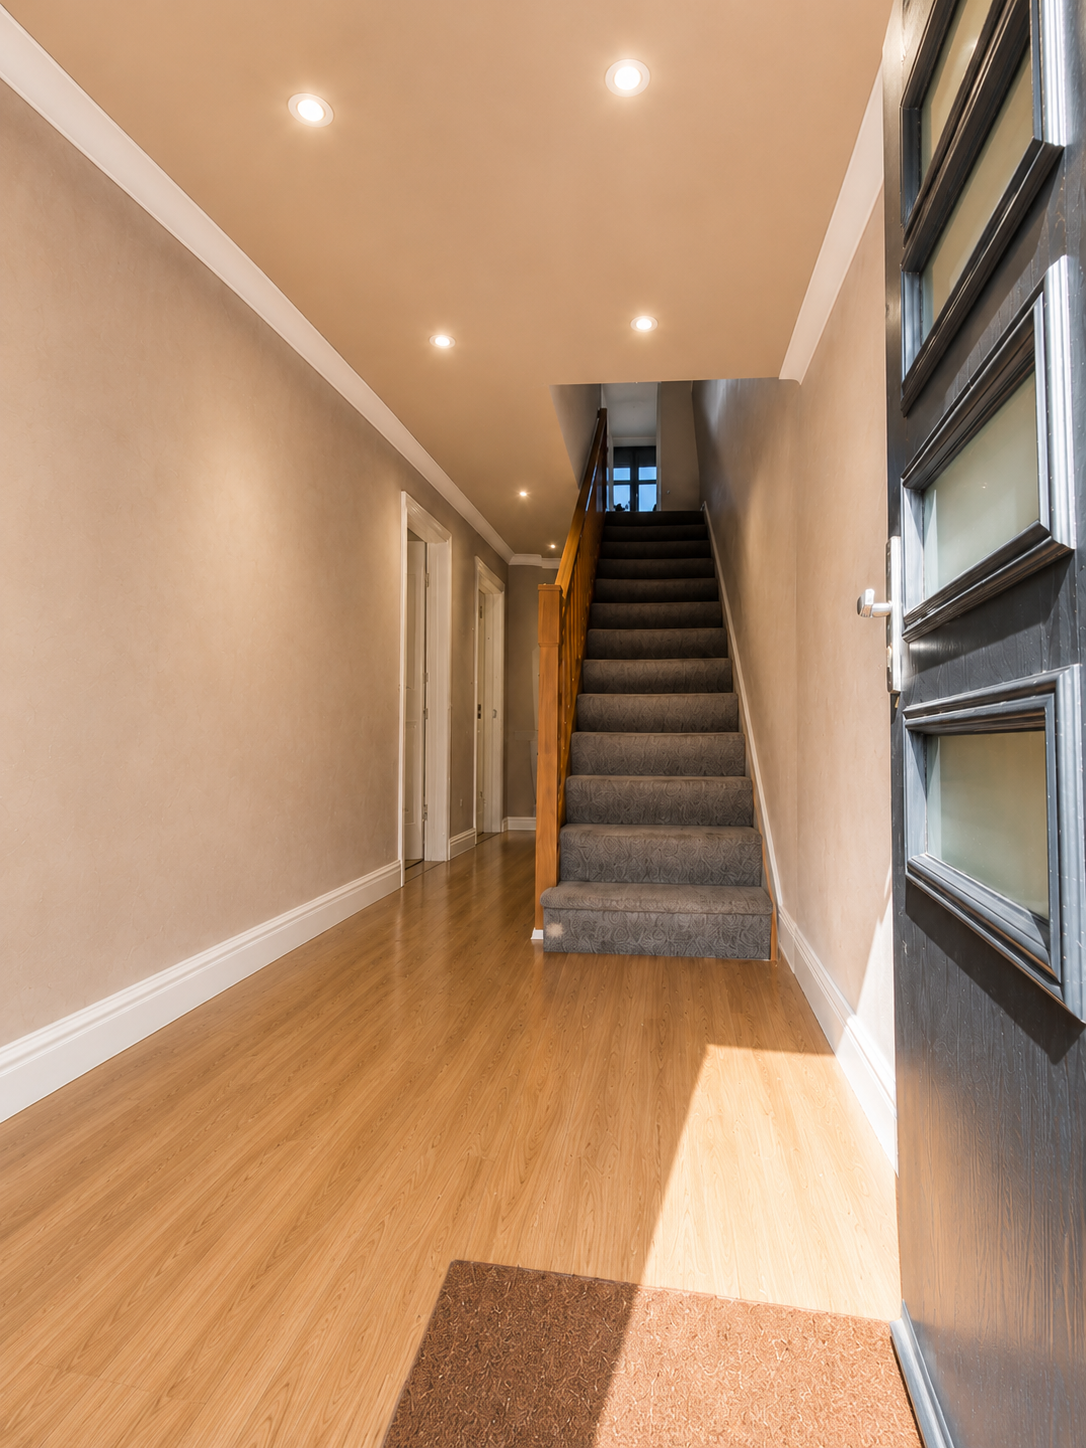
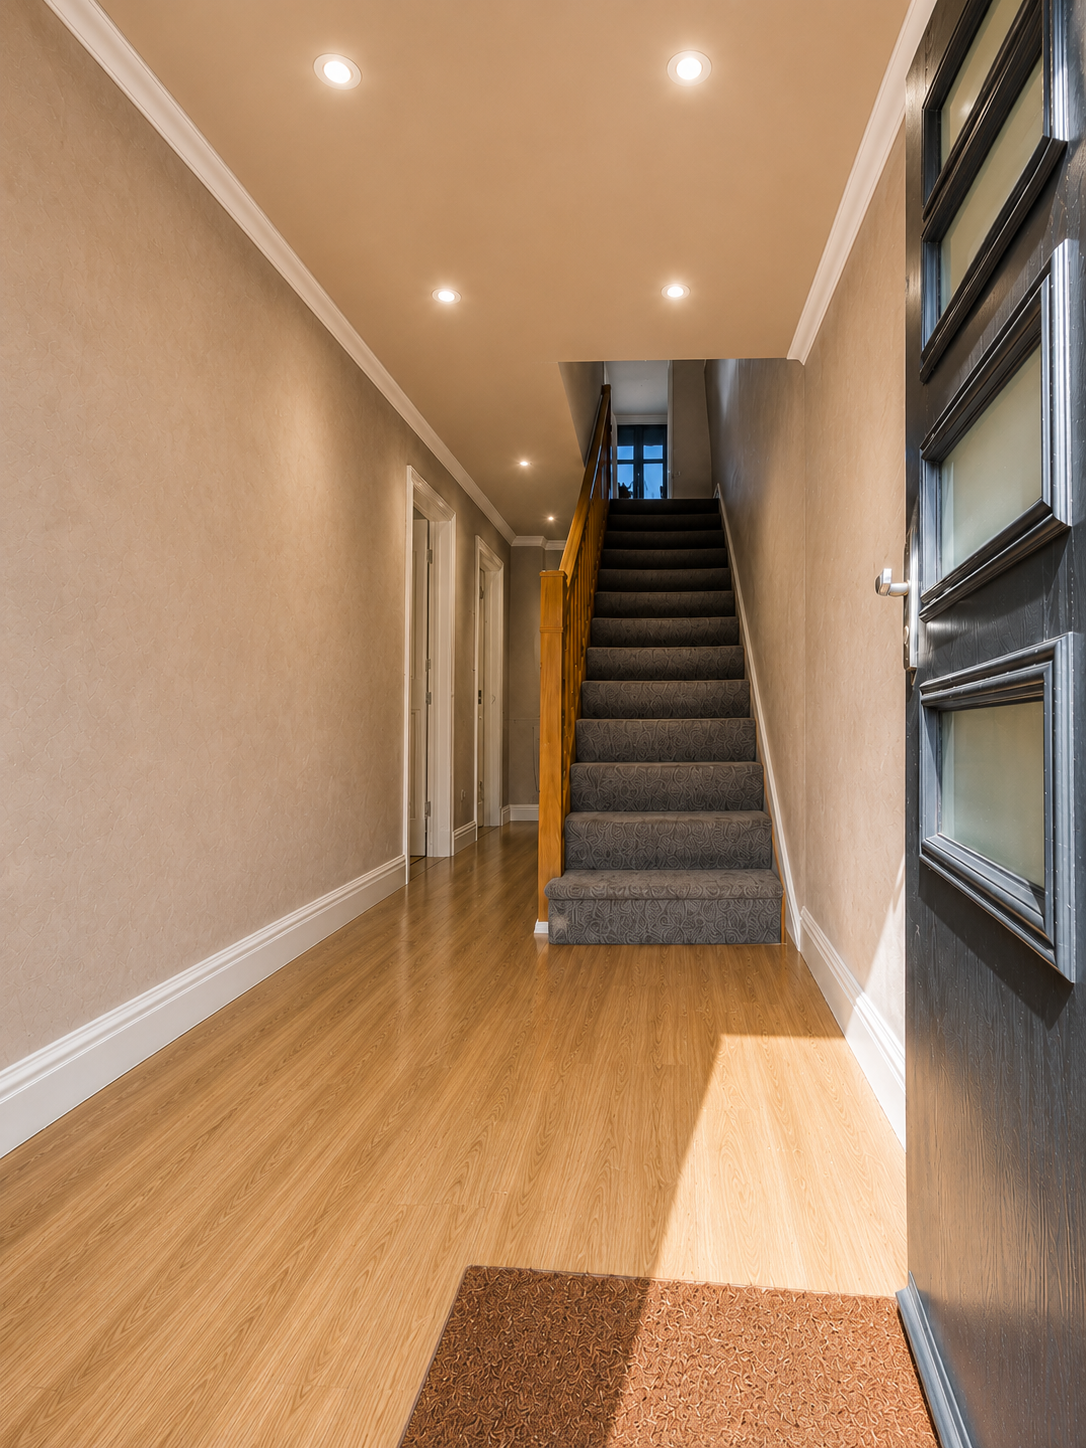
update

diff --git a/index.html b/index.html
@@ -307,148 +307,145 @@
             <div class="reviewCarousel">
                 <button class="reviewPrevButton">&lt;</button>
                     <div class="reviewWindow">
-                        <div class="reviewTracker">
-                            <div class="reviewCards">
-                                <div class="reviewCard">
-                                    <div class="Stars">
-                                        ⭐⭐⭐⭐⭐
-                                    </div>
-                                    <h1>Highly Recommended!</h1>
-                                    <div class="reviewP">
-                                        <p>Excellent service from Chris. Top-quality plastering, very reasonable rates, 
-                                            and a really tidy worker. 
-                                            The walls look brand new. 
-                                            I have already used his services 3 times and 
-                                            i'll definitely be using them again for future projects!</p>
-                                    </div>
-                                    <div class="customerRating">
-                                        <div class="verifedUser">
-                                            <h5>verfiedUser</h5>
-                                            <span> Checkatrade Customer</span>
-                                            <span>CM1</span>
-                                        </div>
-                                        <div class="checkatradeLogo">
-                                            <img src="./images/checkatrade logo.webp" alt="Checkatrade">
-                                        </div>
-                                    </div>
+                        <div class="reviewTracker">                      
+                            <div class="reviewCard">
+                                <div class="Stars">
+                                    ⭐⭐⭐⭐⭐
                                 </div>
-                                <div class="reviewCard">
-                                    <div class="Stars">
-                                        ⭐⭐⭐⭐⭐
-                                    </div>
-                                    <h1>Highly Recommended!</h1>
-                                    <div class="reviewP">
-                                        <p>Excellent service from Chris. Top-quality plastering, very reasonable rates, 
-                                            and a really tidy worker. 
-                                            The walls look brand new. 
-                                            I have already used his services 3 times and 
-                                            i'll definitely be using them again for future projects!</p>
-                                    </div>
-                                    <div class="customerRating">
-                                        <div class="verifedUser">
-                                            <h5>verfiedUser</h5>
-                                            <span> Checkatrade Customer</span>
-                                            <span>CM1</span>
-                                        </div>
-                                        <div class="checkatradeLogo">
-                                            <img src="./images/checkatrade logo.webp" alt="Checkatrade">
-                                        </div>
-                                    </div>
+                                <h1>Highly Recommended!</h1>
+                                <div class="reviewP">
+                                    <p>Excellent service from Chris. Top-quality plastering, very reasonable rates, 
+                                        and a really tidy worker. 
+                                        The walls look brand new. 
+                                        I have already used his services 3 times and 
+                                        i'll definitely be using them again for future projects!</p>
                                 </div>
-                                <div class="reviewCard">
-                                    <div class="Stars">
-                                        ⭐⭐⭐⭐⭐
+                                <div class="customerRating">
+                                    <div class="verifedUser">
+                                        <h5>verfiedUser</h5>
+                                        <span> Checkatrade Customer</span>
+                                        <span>CM1</span>
                                     </div>
-                                    <h1>Highly Recommended!</h1>
-                                    <div class="reviewP">
-                                        <p>Excellent service from Chris. Top-quality plastering, very reasonable rates, 
-                                            and a really tidy worker. 
-                                            The walls look brand new. 
-                                            I have already used his services 3 times and 
-                                            i'll definitely be using them again for future projects!</p>
-                                    </div>
-                                    <div class="customerRating">
-                                        <div class="verifedUser">
-                                            <h5>verfiedUser</h5>
-                                            <span> Checkatrade Customer</span>
-                                            <span>CM1</span>
-                                        </div>
-                                        <div class="checkatradeLogo">
-                                            <img src="./images/checkatrade logo.webp" alt="Checkatrade">
-                                        </div>
-                                    </div>
-                                </div>
-                                <div class="reviewCard">
-                                    <div class="Stars">
-                                        ⭐⭐⭐⭐⭐
-                                    </div>
-                                    <h1>Highly Recommended!</h1>
-                                    <div class="reviewP">
-                                        <p>Excellent service from Chris. Top-quality plastering, very reasonable rates, 
-                                            and a really tidy worker. 
-                                            The walls look brand new. 
-                                            I have already used his services 3 times and 
-                                            i'll definitely be using them again for future projects!</p>
-                                    </div>
-                                    <div class="customerRating">
-                                        <div class="verifedUser">
-                                            <h5>verfiedUser</h5>
-                                            <span> Checkatrade Customer</span>
-                                            <span>CM1</span>
-                                        </div>
-                                        <div class="checkatradeLogo">
-                                            <img src="./images/checkatrade logo.webp" alt="Checkatrade">
-                                        </div>
-                                    </div>
-                                </div>
-                                <div class="reviewCard">
-                                    <div class="Stars">
-                                        ⭐⭐⭐⭐⭐
-                                    </div>
-                                    <h1>Highly Recommended!</h1>
-                                    <div class="reviewP">
-                                        <p>Excellent service from Chris. Top-quality plastering, very reasonable rates, 
-                                            and a really tidy worker. 
-                                            The walls look brand new. 
-                                            I have already used his services 3 times and 
-                                            i'll definitely be using them again for future projects!</p>
-                                    </div>
-                                    <div class="customerRating">
-                                        <div class="verifedUser">
-                                            <h5>verfiedUser</h5>
-                                            <span> Checkatrade Customer</span>
-                                            <span>CM1</span>
-                                        </div>
-                                        <div class="checkatradeLogo">
-                                            <img src="./images/checkatrade logo.webp" alt="Checkatrade">
-                                        </div>
-                                    </div>
-                                </div>
-                                <div class="reviewCard">
-                                    <div class="Stars">
-                                        ⭐⭐⭐⭐⭐
-                                    </div>
-                                    <h1>Highly Recommended!</h1>
-                                    <div class="reviewP">
-                                        <p>Excellent service from Chris. Top-quality plastering, very reasonable rates, 
-                                            and a really tidy worker. 
-                                            The walls look brand new. 
-                                            I have already used his services 3 times and 
-                                            i'll definitely be using them again for future projects!</p>
-                                    </div>
-                                    <div class="customerRating">
-                                        <div class="verifedUser">
-                                            <h5>verfiedUser</h5>
-                                            <span> Checkatrade Customer</span>
-                                            <span>CM1</span>
-                                        </div>
-                                        <div class="checkatradeLogo">
-                                            <img src="./images/checkatrade logo.webp" alt="Checkatrade">
-                                        </div>
+                                    <div class="checkatradeLogo">
+                                        <img src="./images/checkatrade logo.webp" alt="Checkatrade">
                                     </div>
                                 </div>
                             </div>
-
+                            <div class="reviewCard">
+                                <div class="Stars">
+                                    ⭐⭐⭐⭐⭐
+                                </div>
+                                <h1>Highly Recommended!</h1>
+                                <div class="reviewP">
+                                    <p>Excellent service from Chris. Top-quality plastering, very reasonable rates, 
+                                        and a really tidy worker. 
+                                        The walls look brand new. 
+                                        I have already used his services 3 times and 
+                                        i'll definitely be using them again for future projects!</p>
+                                </div>
+                                <div class="customerRating">
+                                    <div class="verifedUser">
+                                        <h5>verfiedUser</h5>
+                                        <span> Checkatrade Customer</span>
+                                        <span>CM1</span>
+                                    </div>
+                                    <div class="checkatradeLogo">
+                                        <img src="./images/checkatrade logo.webp" alt="Checkatrade">
+                                    </div>
+                                </div>
+                            </div>
+                            <div class="reviewCard">
+                                <div class="Stars">
+                                    ⭐⭐⭐⭐⭐
+                                </div>
+                                <h1>Highly Recommended!</h1>
+                                <div class="reviewP">
+                                    <p>Excellent service from Chris. Top-quality plastering, very reasonable rates, 
+                                        and a really tidy worker. 
+                                        The walls look brand new. 
+                                        I have already used his services 3 times and 
+                                        i'll definitely be using them again for future projects!</p>
+                                </div>
+                                <div class="customerRating">
+                                    <div class="verifedUser">
+                                        <h5>verfiedUser</h5>
+                                        <span> Checkatrade Customer</span>
+                                        <span>CM1</span>
+                                    </div>
+                                    <div class="checkatradeLogo">
+                                        <img src="./images/checkatrade logo.webp" alt="Checkatrade">
+                                    </div>
+                                </div>
+                            </div>
+                            <div class="reviewCard">
+                                <div class="Stars">
+                                    ⭐⭐⭐⭐⭐
+                                </div>
+                                <h1>Highly Recommended!</h1>
+                                <div class="reviewP">
+                                    <p>Excellent service from Chris. Top-quality plastering, very reasonable rates, 
+                                        and a really tidy worker. 
+                                        The walls look brand new. 
+                                        I have already used his services 3 times and 
+                                        i'll definitely be using them again for future projects!</p>
+                                </div>
+                                <div class="customerRating">
+                                    <div class="verifedUser">
+                                        <h5>verfiedUser</h5>
+                                        <span> Checkatrade Customer</span>
+                                        <span>CM1</span>
+                                    </div>
+                                    <div class="checkatradeLogo">
+                                        <img src="./images/checkatrade logo.webp" alt="Checkatrade">
+                                    </div>
+                                </div>
+                            </div>
+                            <div class="reviewCard">
+                                <div class="Stars">
+                                    ⭐⭐⭐⭐⭐
+                                </div>
+                                <h1>Highly Recommended!</h1>
+                                <div class="reviewP">
+                                    <p>Excellent service from Chris. Top-quality plastering, very reasonable rates, 
+                                        and a really tidy worker. 
+                                        The walls look brand new. 
+                                        I have already used his services 3 times and 
+                                        i'll definitely be using them again for future projects!</p>
+                                </div>
+                                <div class="customerRating">
+                                    <div class="verifedUser">
+                                        <h5>verfiedUser</h5>
+                                        <span> Checkatrade Customer</span>
+                                        <span>CM1</span>
+                                    </div>
+                                    <div class="checkatradeLogo">
+                                        <img src="./images/checkatrade logo.webp" alt="Checkatrade">
+                                    </div>
+                                </div>
+                            </div>
+                            <div class="reviewCard">
+                                <div class="Stars">
+                                    ⭐⭐⭐⭐⭐
+                                </div>
+                                <h1>Highly Recommended!</h1>
+                                <div class="reviewP">
+                                    <p>Excellent service from Chris. Top-quality plastering, very reasonable rates, 
+                                        and a really tidy worker. 
+                                        The walls look brand new. 
+                                        I have already used his services 3 times and 
+                                        i'll definitely be using them again for future projects!</p>
+                                </div>
+                                <div class="customerRating">
+                                    <div class="verifedUser">
+                                        <h5>verfiedUser</h5>
+                                        <span> Checkatrade Customer</span>
+                                        <span>CM1</span>
+                                    </div>
+                                    <div class="checkatradeLogo">
+                                        <img src="./images/checkatrade logo.webp" alt="Checkatrade">
+                                    </div>
+                                </div>
+                            </div>
                         </div>
                     </div>
 

diff --git a/script.js b/script.js
@@ -127,7 +127,7 @@ const reviewDots = document.querySelectorAll(".reviewDots span");
 let currentReview = 0;
 let autoPlayReview;
 
-updateReviewCarousel = () => {
+const updateReviewCarousel = () => {
     reviewTracker.style.transform =
     `translateX(-${currentReview * 100}%)`;
 
@@ -140,7 +140,7 @@ updateReviewCarousel = () => {
     });
 }
 
-updateNextReview = () => {
+const updateNextReview = () => {
     currentReview ++;
 
     if(currentReview >= reviewCards.length) {
@@ -150,7 +150,7 @@ updateNextReview = () => {
     updateReviewCarousel();
 }
 
-updatePrevReview = () => {
+const updatePrevReview = () => {
     currentReview --;
     if(currentReview < 0 ) {
         currentReview = reviewCards.length - 1;
@@ -171,22 +171,40 @@ const startReviewAutoPlay = () => {
 updateReviewCarousel();
 startReviewAutoPlay();
 
+/* Arrow controls */
+
+reviewArrowRight.addEventListener("click", () => {
+    updateNextReview();
+    startReviewAutoPlay();
+});
+
+reviewArrowLeft.addEventListener("click", () => {
+    updatePrevReview();
+    startReviewAutoPlay();
+});
+
 
 let reviewTouchX = 0;
 let reviewTouchEndX = 0;
 
 reviewTracker.addEventListener("touchstart", (event) => {
-    touchStartX = event.touches[0].clientX;
+    reviewTouchX = event.touches[0].clientX;
 });
 
 reviewTracker.addEventListener("touchend", (event) => {
-    touchEndX = event.changedTouches[0].clientX;
+    reviewTouchEndX = event.changedTouches[0].clientX;
 
-    const swipeDistance = touchStartX - touchEndX;
+    const swipeDistance = ReviewTouchX - ReviewTouchEndX;
     const minimumSwipeDistance = 50;
 
     if (swipeDistance > minimumSwipeDistance) {
         updateNextReview();
         startReviewAutoPlay();
     }
+
+    if (swipeDistance < -minimumSwipeDistance) {
+        updatePrevReview();
+        startReviewAutoPlay();
+    }
+
 });

diff --git a/style.css b/style.css
@@ -684,13 +684,11 @@ body {
 
 .reviewTracker {
    width: 100%;
-   transition: ease-in-out 0.5s;
+   transition: transform 0.5s ease-in-out;
+   display: flex;
+   gap: 0px;
 }
 
-.reviewCards {
-    display: flex;
-    gap: 0px;
-}
 
 .Stars {
     margin-bottom: 25px;
